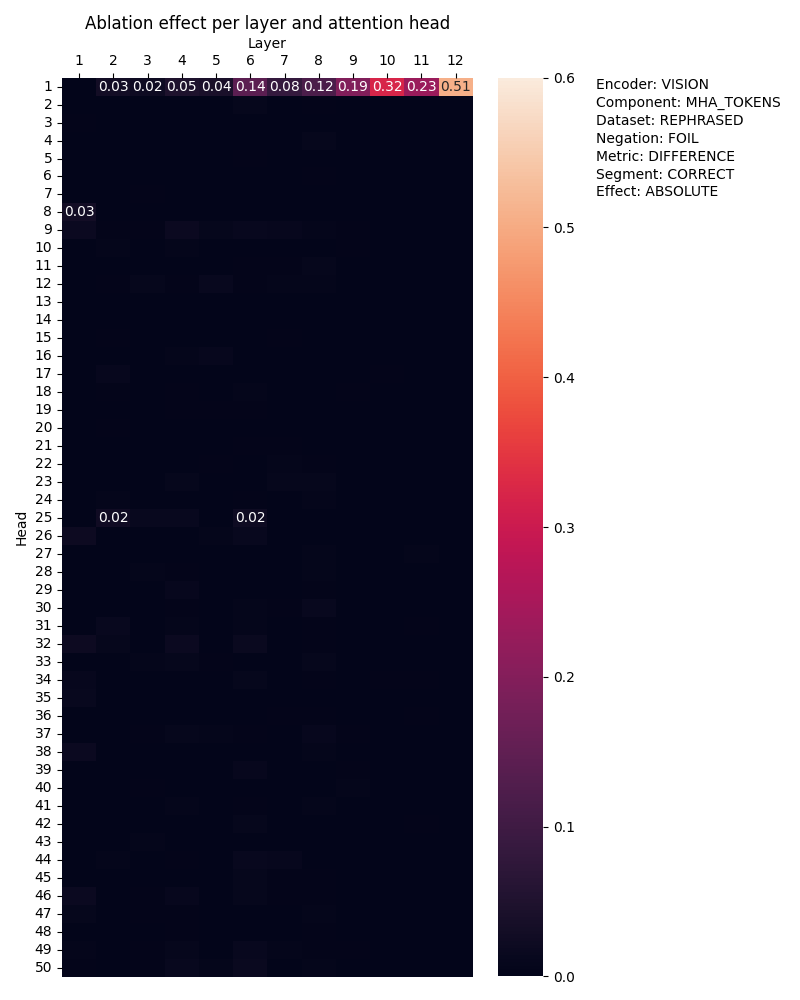
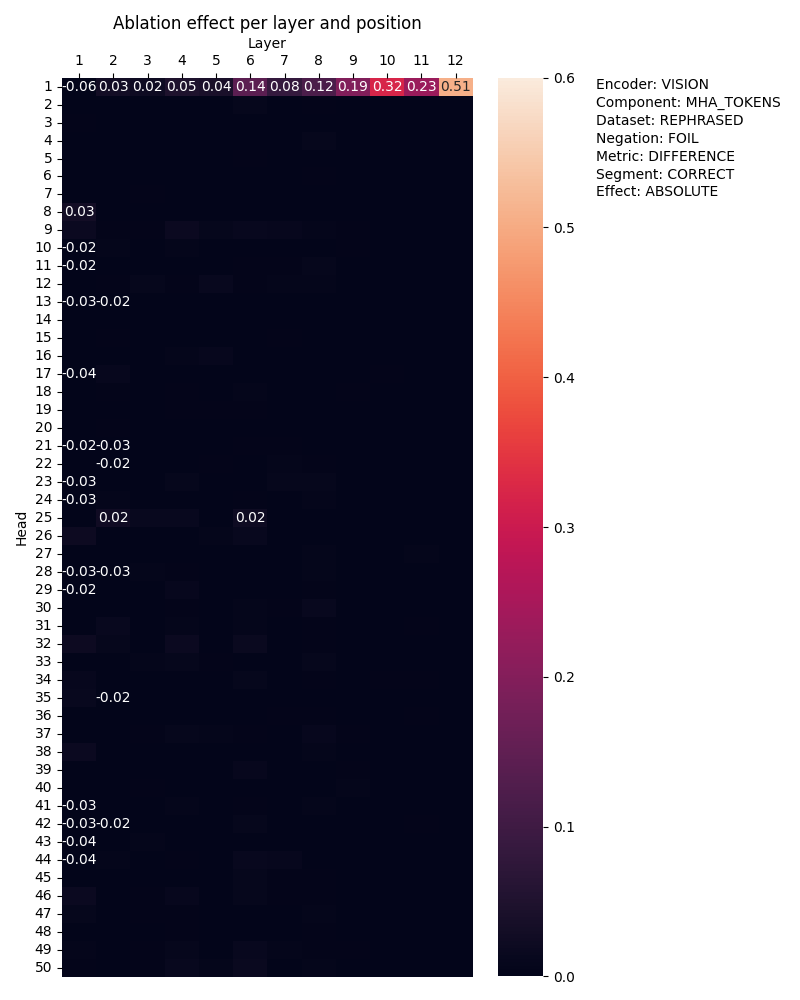
Ablation update

diff --git a/src/ablation/analyse_ablation_results.py b/src/ablation/analyse_ablation_results.py
@@ -11,11 +11,11 @@ from matplotlib.ticker import PercentFormatter
 # Experiment configuration
 CONFIG = {
     'encoder': 'vision',    # vision/text
-    'component': 'mlp',     # mha/mlp
+    'component': 'mha_tokens',     # mha/mlp
     'dataset': 'rephrased', # standard/rephrased
-    'negation': 'caption',  # foil/caption
+    'negation': 'foil',  # foil/caption
     'metric': 'difference', # absolute/difference
-    'segment': 'ambiguous',  # correct/ambiguous/incorrect
+    'segment': 'incorrect',  # correct/ambiguous/incorrect
     'effect': 'absolute'    # absolute/relative
 }
 
@@ -33,16 +33,17 @@ except:
 
 if 'token' in CONFIG['component']:
     effect_df = pd.DataFrame(effects).transpose()
-    effect_df_annot = effect_df.map(lambda x: f'{x:.2f}' if x >= 0.02 else '')
+    effect_df_annot = effect_df.map(lambda x: f'{x:.2f}' if x >= 0.02 or x <=-0.02 else '')
 
     fig, ax = plt.subplots(1, 1, figsize=(8, 10))
 
     x_tick_labels = [i + 1 for i in range(effect_df.shape[1])]
     y_tick_labels = [i + 1 for i in range(effect_df.shape[0])]
 
+    # effect_hm = sns.heatmap(effect_df, annot=True, fmt='', ax=ax)
     effect_hm = sns.heatmap(effect_df, annot=effect_df_annot, fmt='', vmin=0, vmax=0.6, ax=ax)
     effect_hm.set(xlabel='Layer', ylabel='Head', xticklabels=x_tick_labels, yticklabels=y_tick_labels,
-                  title='Ablation effect per layer and attention head')
+                  title='Ablation effect per layer and position')
     effect_hm.xaxis.tick_top()
     effect_hm.xaxis.set_label_position('top')
 

diff --git a/src/ablation/ablate_vision_mha.py b/src/ablation/ablate_vision_mha.py
@@ -13,7 +13,7 @@ CONFIG = {
     'encoder': 'vision',    # vision/text
     'component': 'mha',     # mha/mlp
     'dataset': 'rephrased', # standard/rephrased
-    'negation': 'caption',  # foil/caption
+    'negation': 'foil',  # foil/caption
     'metric': 'difference', # absolute/difference
     'segment': 'incorrect',  # correct/ambiguous/incorrect
     'effect': 'absolute'    # absolute/relative
